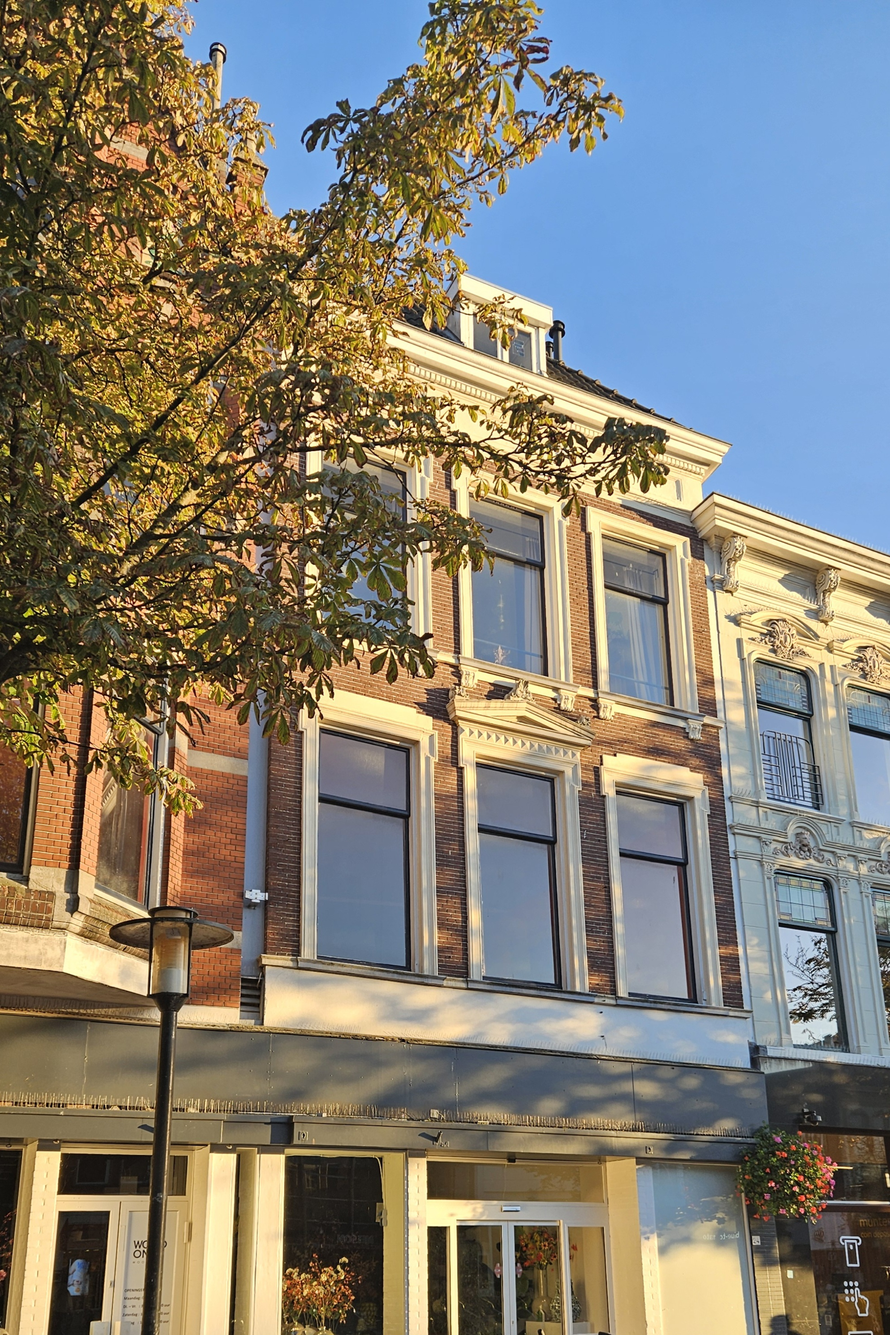
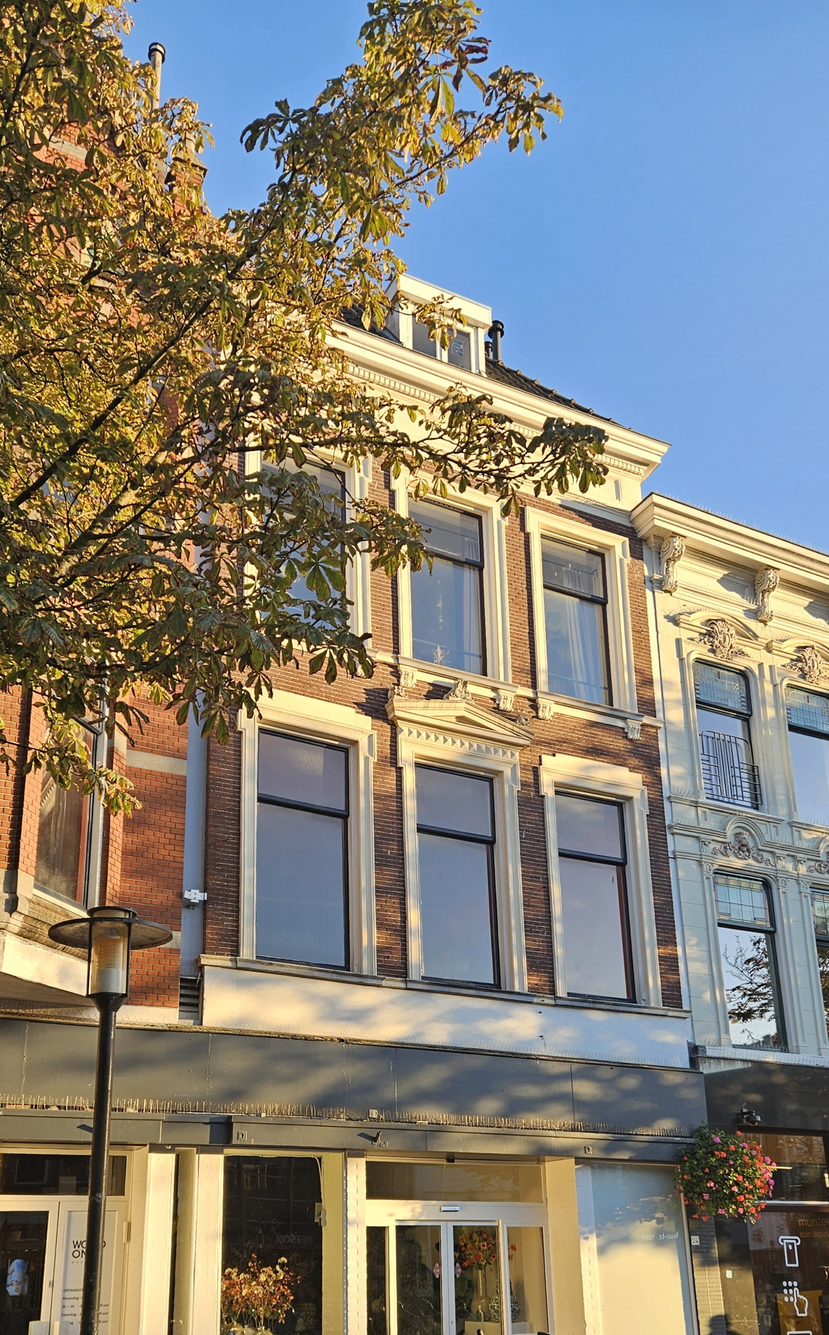
aflevering 37

diff --git a/markers.js b/markers.js
@@ -118,7 +118,7 @@ addMarker(34, 2, 53.02705480345685, 5.6739489005230785, "KING-fabriek", true);
 addMarker(35, 1, 53.22272272156979, 6.557841289598511, "Oude Hortus Botanicus", false);
 
 addMarker(37, 1, 53.24462963362889, 6.547089413882324, "Locatie Kasteel Selwerd", false);
-addMarker(37, 2, 53.24503641344943, 6.530569956731923, "Locatie Tweede Kasteel Selwerd", false);
+addMarker(37, 2, 53.24503641344943, 6.530569956731923, "Locatie Tweede Kasteel Selwerd", true);
 addMarker(37, 3, 53.23959507747501, 5.99064884359942, "Schierstins Feanwâlden", false);
 
 addMarker(39, 1, 53.20203634669874, 6.576153530149379, "Borstbeeld Majoor Lodewijk Thomson", false);

diff --git a/paginaData.js b/paginaData.js
@@ -47,6 +47,12 @@ const afleveringenData = {
     url: "https://www.youtube.com/watch?v=YBcS1gDtWRY"
   },
 
+  37: {
+    titel: "Rudolf Prediker",
+    ondertitel: "Het tweede kasteel Selwerd op het Zernikecomplex",
+    url: "https://www.youtube.com/watch?v=kgzD66sJgxY"
+  },
+
   46: {
     titel: "Petrus Camper",
     ondertitel: "Een succesvol hoogleraar en het nieuwe stadhuis",
